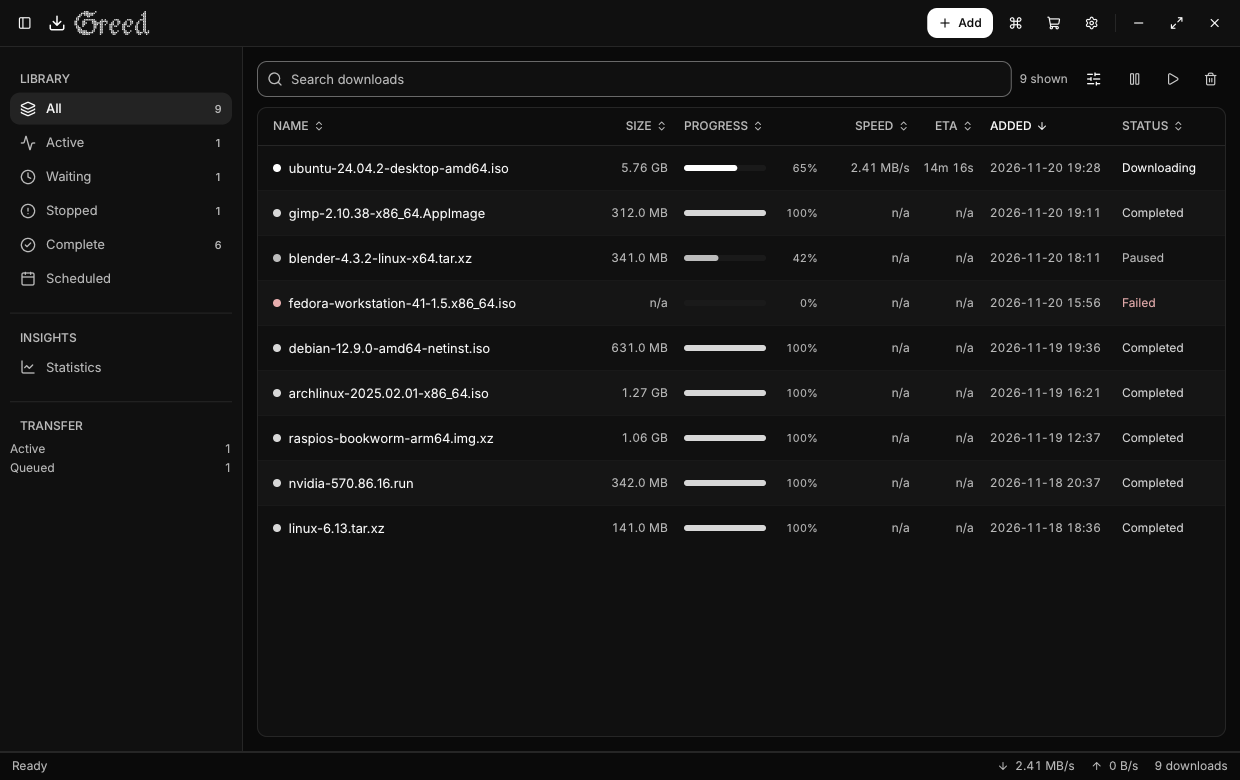
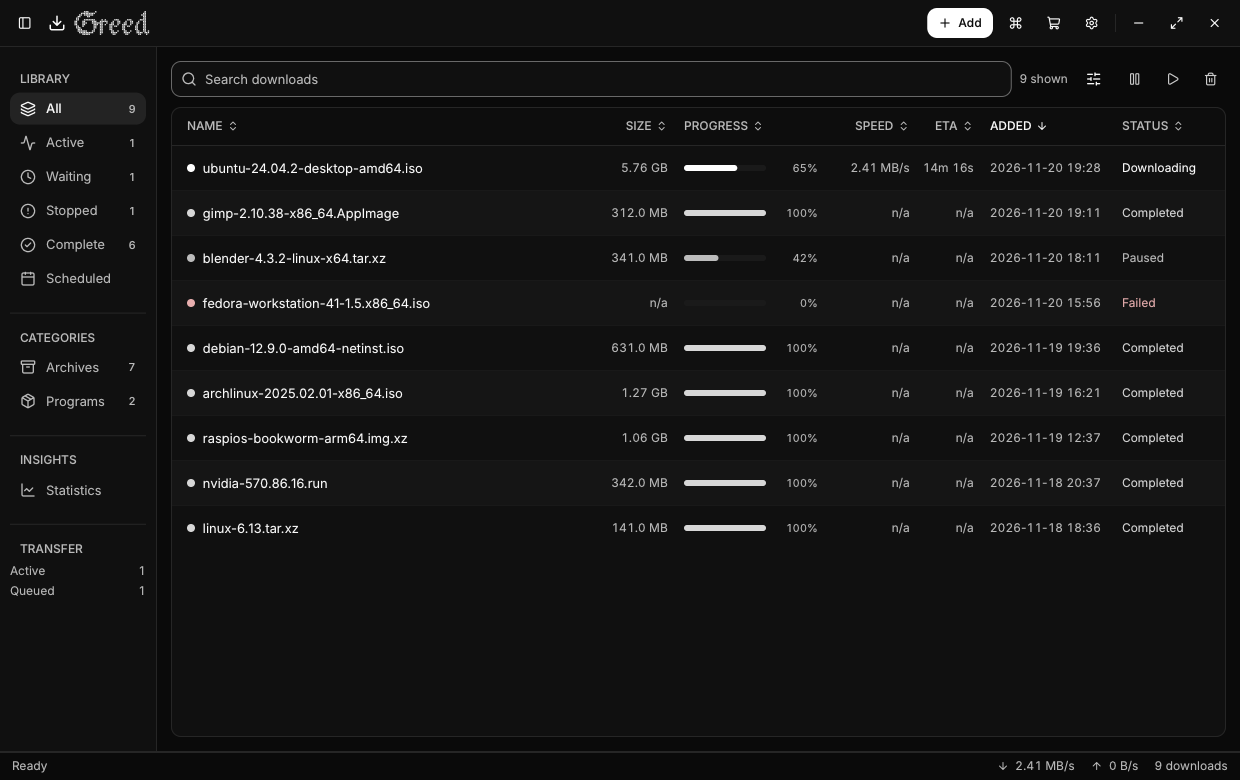
Add automatic file-type categories to the sidebar
- Classify downloads by extension in the model: Video, Audio, Images,
  Documents, Archives, Programs and Other.
- Show a Categories section once a category has downloads, with counts;
  clicking one filters the list and takes over from the Library tab.
- Clear the category when a Library tab, Ctrl+1, the command palette or
  the Vim h/l keys switch tabs, and drop a category that becomes empty.
- Add classifier tests and refresh both README screenshots.

diff --git a/src/ui.c b/src/ui.c
@@ -66,6 +66,7 @@ typedef struct {
     bool connected;
     bool engine_applied;
     int tab;
+    int category;
     int view;
     GreedScheduled sched[GREED_MAX_SCHEDULED];
     int sched_count;
@@ -183,6 +184,11 @@ static void request_remove(App *a);
 static const char *tab_names[TAB_COUNT] = {"All", "Active", "Waiting", "Stopped", "Complete"};
 static const char *tab_icons[TAB_COUNT] = {CUI_ICON_LAYERS, CUI_ICON_ACTIVITY, CUI_ICON_CLOCK,
                                            CUI_ICON_CIRCLE_ALERT, CUI_ICON_CIRCLE_CHECK};
+static const char *cat_names[CAT_COUNT] = {NULL, "Video", "Audio", "Images", "Documents",
+                                           "Archives", "Programs", "Other"};
+static const char *cat_icons[CAT_COUNT] = {NULL, CUI_ICON_VIDEO, CUI_ICON_MUSIC, CUI_ICON_IMAGE,
+                                           CUI_ICON_FILE_TEXT, CUI_ICON_ARCHIVE, CUI_ICON_PACKAGE,
+                                           CUI_ICON_FILE};
 
 typedef struct {
     const char *title;
@@ -1331,7 +1337,11 @@ static int collect_rows(App *a, int *rows, int cap) {
     int n = 0;
     for (int i = 0; i < a->count; i++) {
         const Download *d = &a->items[i];
-        if (!tab_matches(a->tab, d)) continue;
+        if (a->category) {
+            if (download_category(d) != a->category) continue;
+        } else if (!tab_matches(a->tab, d)) {
+            continue;
+        }
         if (!contains_ci(d->name, a->filter) && !contains_ci(d->url, a->filter)) continue;
         if (rows) {
             if (n >= cap) break;
@@ -1512,6 +1522,9 @@ static void sidebar(App *a, cui_ctx *ui, float width) {
     for (int i = 0; i < a->count; i++)
         for (int t = 0; t < TAB_COUNT; t++)
             if (tab_matches(t, &a->items[i])) counts[t]++;
+    int cats[CAT_COUNT] = {0};
+    for (int i = 0; i < a->count; i++) cats[download_category(&a->items[i])]++;
+    if (a->category && !cats[a->category]) a->category = CAT_NONE;
     bool mac = mac_chrome(a);
     bool glass = mac_glass(a);
     GlassPaint g = glass_fill(a, ui);
@@ -1534,9 +1547,11 @@ static void sidebar(App *a, cui_ctx *ui, float width) {
                     if (counts[t] > 0) snprintf(badge, sizeof badge, "%d", counts[t]);
                     if (cui_nav_item(ui, tab_names[t], .icon = tab_icons[t],
                                      .badge = badge[0] ? badge : NULL,
-                                     .selected = a->view == VIEW_DOWNLOADS && a->tab == t,
+                                     .selected = a->view == VIEW_DOWNLOADS && a->tab == t &&
+                                                 !a->category,
                                      .group = "tabs")) {
                         a->tab = t;
+                        a->category = CAT_NONE;
                         a->view = VIEW_DOWNLOADS;
                     }
                 }
@@ -1546,6 +1561,26 @@ static void sidebar(App *a, cui_ctx *ui, float width) {
                                  .badge = sched_badge[0] ? sched_badge : NULL,
                                  .selected = a->view == VIEW_SCHEDULED, .group = "tabs"))
                     a->view = VIEW_SCHEDULED;
+                bool any_category = false;
+                for (int c = CAT_VIDEO; c < CAT_COUNT; c++)
+                    if (cats[c]) any_category = true;
+                if (any_category) {
+                    cui_box(ui, .height = CUI_PX(14)) {}
+                    cui_separator(ui);
+                    cui_nav_section(ui, mac ? "Categories" : "CATEGORIES");
+                    for (int c = CAT_VIDEO; c < CAT_COUNT; c++) {
+                        if (!cats[c]) continue;
+                        char badge[16];
+                        snprintf(badge, sizeof badge, "%d", cats[c]);
+                        if (cui_nav_item(ui, cat_names[c], .icon = cat_icons[c], .badge = badge,
+                                         .selected = a->view == VIEW_DOWNLOADS &&
+                                                     a->category == c,
+                                         .group = "tabs")) {
+                            a->category = c;
+                            a->view = VIEW_DOWNLOADS;
+                        }
+                    }
+                }
                 cui_box(ui, .height = CUI_PX(14)) {}
                 cui_separator(ui);
                 cui_nav_section(ui, mac ? "Insights" : "INSIGHTS");
@@ -3701,7 +3736,7 @@ static void run_command(App *a, int cmd) {
         break;
     case CMD_SELECT_ALL: select_all(a); break;
     case CMD_CLEAR: selection_clear(a); a->details_open = false; break;
-    case CMD_DOWNLOADS: a->view = VIEW_DOWNLOADS; break;
+    case CMD_DOWNLOADS: a->category = CAT_NONE; a->view = VIEW_DOWNLOADS; break;
     case CMD_STATS: a->view = VIEW_STATS; break;
     case CMD_SCHEDULED: a->view = VIEW_SCHEDULED; break;
     case CMD_SIDEBAR: a->sidebar_open = !a->sidebar_open; break;
@@ -3795,10 +3830,12 @@ static void list_keys(App *a, cui_ctx *ui, bool vim) {
     if (!vim) return;
     if (plain_key(ui, CUI_KEY_H)) {
         a->tab = (a->tab + TAB_COUNT - 1) % TAB_COUNT;
+        a->category = CAT_NONE;
         a->view = VIEW_DOWNLOADS;
     }
     if (plain_key(ui, CUI_KEY_L)) {
         a->tab = (a->tab + 1) % TAB_COUNT;
+        a->category = CAT_NONE;
         a->view = VIEW_DOWNLOADS;
     }
     double now = cui_time(ui);
@@ -3867,6 +3904,7 @@ static void handle_keys(App *a, cui_ctx *ui) {
     }
     if (cui_shortcut(ui, CUI_MOD_PRIMARY, CUI_KEY_1)) {
         a->tab = TAB_ALL;
+        a->category = CAT_NONE;
         a->view = VIEW_DOWNLOADS;
     }
     if (cui_shortcut(ui, CUI_MOD_PRIMARY, CUI_KEY_2)) a->view = VIEW_STATS;

diff --git a/src/model.c b/src/model.c
@@ -3,6 +3,7 @@
 #include <stdio.h>
 #include <stdlib.h>
 #include <string.h>
+#include <strings.h>
 
 static const char *jstr(struct json_object *v, const char *key) {
     struct json_object *o;
@@ -108,6 +109,37 @@ const char *download_status_label(const Download *d) {
 bool download_is_finished(const Download *d) {
     return !strcmp(d->status, "complete") || !strcmp(d->status, "error") ||
            !strcmp(d->status, "removed");
+}
+
+static bool has_extension(const char *name, const char *const *exts) {
+    const char *dot = strrchr(name, '.');
+    if (!dot || !dot[1]) return false;
+    for (int i = 0; exts[i]; i++)
+        if (!strcasecmp(dot + 1, exts[i])) return true;
+    return false;
+}
+
+int download_category(const Download *d) {
+    static const char *video[] = {"mp4", "mkv", "webm", "avi", "mov", "m4v", "ts", "flv",
+                                  "wmv", "mpg", "mpeg", NULL};
+    static const char *audio[] = {"mp3", "flac", "m4a", "opus", "ogg", "wav", "aac", "wma",
+                                  "aiff", "alac", NULL};
+    static const char *images[] = {"jpg", "jpeg", "png", "gif", "webp", "bmp", "svg", "heic",
+                                   "avif", "tif", "tiff", "ico", NULL};
+    static const char *documents[] = {"pdf", "epub", "mobi", "doc", "docx", "odt", "txt", "rtf",
+                                      "xls", "xlsx", "ods", "ppt", "pptx", "odp", "csv", "md",
+                                      NULL};
+    static const char *archives[] = {"zip", "tar", "gz", "xz", "7z", "rar", "bz2", "zst", "iso",
+                                     "img", "tgz", "tbz", "txz", NULL};
+    static const char *programs[] = {"appimage", "deb", "rpm", "apk", "exe", "msi", "run",
+                                     "flatpak", "snap", "sh", NULL};
+    if (has_extension(d->name, video)) return CAT_VIDEO;
+    if (has_extension(d->name, audio)) return CAT_AUDIO;
+    if (has_extension(d->name, images)) return CAT_IMAGES;
+    if (has_extension(d->name, documents)) return CAT_DOCUMENTS;
+    if (has_extension(d->name, archives)) return CAT_ARCHIVES;
+    if (has_extension(d->name, programs)) return CAT_PROGRAMS;
+    return CAT_OTHER;
 }
 
 void fmt_speed(char *out, size_t cap, unsigned long long bps) {

diff --git a/tests/model.c b/tests/model.c
@@ -1,0 +1,27 @@
+#include "model.h"
+
+#include <assert.h>
+#include <stdio.h>
+#include <string.h>
+
+static int category(const char *name) {
+    Download d;
+    memset(&d, 0, sizeof d);
+    snprintf(d.name, sizeof d.name, "%s", name);
+    return download_category(&d);
+}
+
+int main(void) {
+    assert(category("movie.MKV") == CAT_VIDEO);
+    assert(category("song.flac") == CAT_AUDIO);
+    assert(category("cover.JPEG") == CAT_IMAGES);
+    assert(category("manual.pdf") == CAT_DOCUMENTS);
+    assert(category("backup.tar.gz") == CAT_ARCHIVES);
+    assert(category("Greed-x86_64.AppImage") == CAT_PROGRAMS);
+    assert(category("magnet-abcdef") == CAT_OTHER);
+    assert(category("README") == CAT_OTHER);
+    assert(category("movie.") == CAT_OTHER);
+    assert(category("archive.tar.gz.tmp") == CAT_OTHER);
+    puts("model: ok");
+    return 0;
+}

diff --git a/src/model.h b/src/model.h
@@ -32,11 +32,15 @@ typedef struct {
     unsigned long long stopped;
 } GlobalStat;
 
+enum { CAT_NONE = 0, CAT_VIDEO, CAT_AUDIO, CAT_IMAGES, CAT_DOCUMENTS, CAT_ARCHIVES,
+       CAT_PROGRAMS, CAT_OTHER, CAT_COUNT };
+
 bool download_parse(struct json_object *v, Download *d);
 double download_progress(const Download *d);
 bool download_eta(const Download *d, unsigned long long *secs);
 const char *download_status_label(const Download *d);
 bool download_is_finished(const Download *d);
+int download_category(const Download *d);
 
 void fmt_speed(char *out, size_t cap, unsigned long long bps);
 void fmt_bytes(char *out, size_t cap, unsigned long long bytes);

diff --git a/README.md b/README.md
@@ -70,6 +70,8 @@ runtime in between.
 - Optional Liquid Glass theme with light and dark variants, a unified toolbar, traffic lights and
   optical glass on the toolbar, sidebar and dialogs
 - Sidebar tabs for All, Active, Waiting, Stopped and Complete
+- Automatic file-type categories (Video, Audio, Images, Documents, Archives, Programs, Other)
+  that appear once they have downloads and filter the list when clicked
 - Resizable sidebar from 140 to 420 px, with live transfer speeds in the status bar
 - Searchable download table with Name, Size, Progress, Speed, ETA, Added, Location, Connections
   and Status; every column except Name can be hidden
